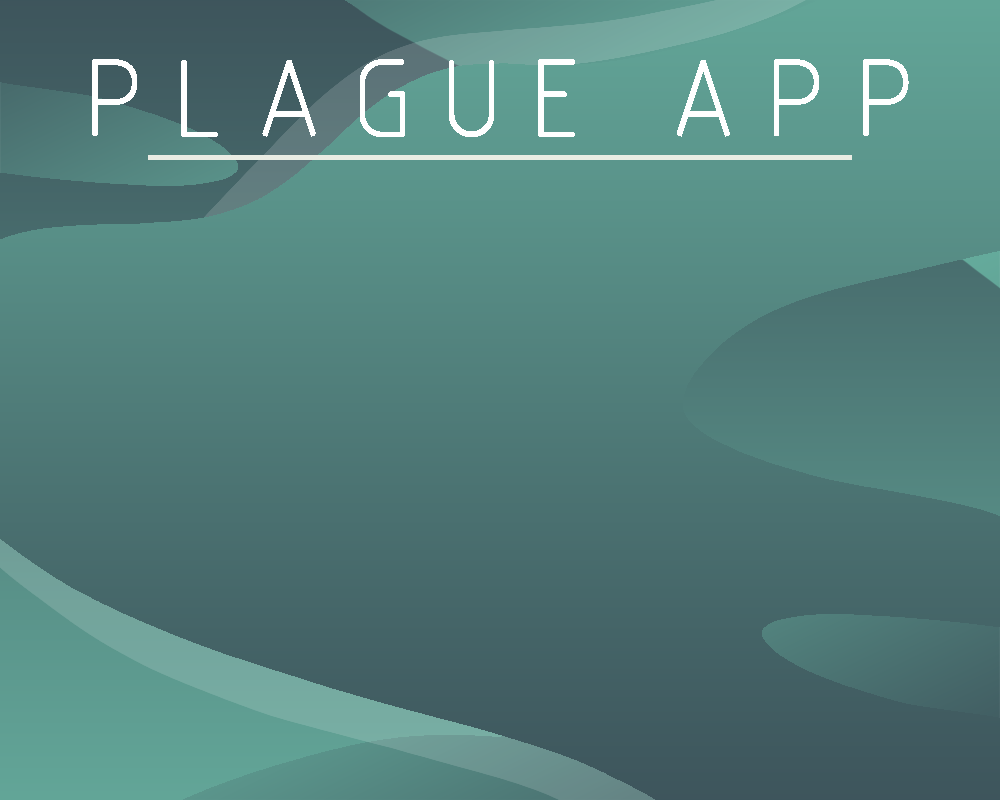
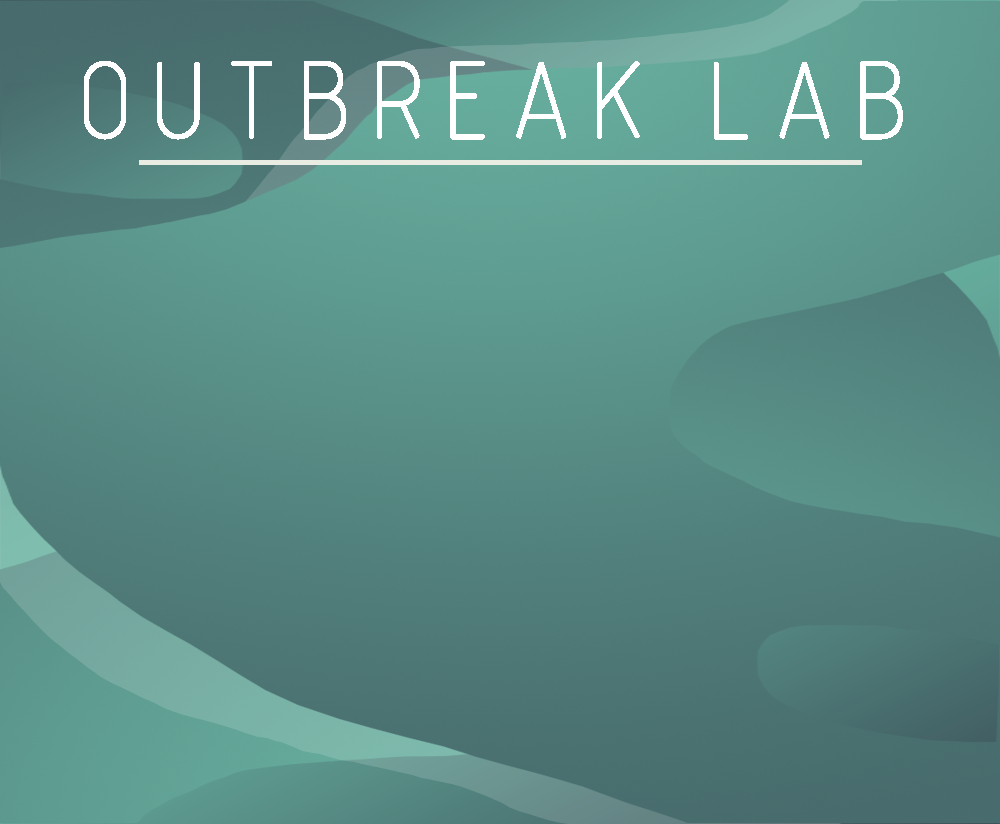
Created exe file and changed app name

diff --git a/KivyVisuals/KivySubElements/settings/KivySettings.py b/KivyVisuals/KivySubElements/settings/KivySettings.py
@@ -24,10 +24,9 @@ class CustomSettings(BaseScreen):
         }
 
         self.modifiersValuesVisual : tuple[MODIF_LEVELS] = tuple( self.modifiersDict.keys() )
-        self.generate_ids()
 
     
-    def generate_ids( self ) -> None:
+    def setup_ids( self, *args ) -> None:
         self.generation_params : dict[any, tuple[type, any]] = {
             self.ids.generationSize : (int, self.sd.gd.generation_size), 
             self.ids.curingTimeMin : (int, self.sd.gd.curing_time_min) , 
@@ -56,7 +55,7 @@ class CustomSettings(BaseScreen):
     #region OnStartSetup 
 
     def setup_data( self ) -> None:
-        self.generate_ids()
+        self.setup_ids()
         current_data, modif = self.sd.get_current_data()
         self.setup_base_params( current_data )
         self.setup_modif_params( modif )

diff --git a/KivyVisuals/kivy_main.py b/KivyVisuals/kivy_main.py
@@ -17,8 +17,13 @@ from KivyVisuals.KivySubElements.main.KivyMain import PlagueMainScreen
 from KivyVisuals.KivySubElements.loading.KivyLoading import Loading
 from KivyVisuals.KivySubElements.settings.KivySettings import CustomSettings
 from KivyVisuals.KivySubElements.presets.KivyPresets import SelectPreset
+from helper import resource_path
 
 class PlagueApp(App):
+
+    @staticmethod
+    def resource_path_app(relative_path):
+        return resource_path(relative_path)
 
     def __init__( self, sd : SymulationData,  **kwargs ) -> None:
         self.sd = sd

diff --git a/SymulationData.py b/SymulationData.py
@@ -165,7 +165,6 @@ class SymulationData:
 #region setters
 
     def update_all_data( self, gd : GenerationData, spd : SymulationPreData, modifs : list[MODIF_LEVELS], vaccines_enabled : bool, vaccines_params : list[any]  ) -> None:
-        print("current_preset")
         self.current_preset = PRESETS_NAMES.NONE.value
         self.symulation_name = ""
         final_modifs = self.generate_modif( modifs, vaccines_enabled, vaccines_params )
